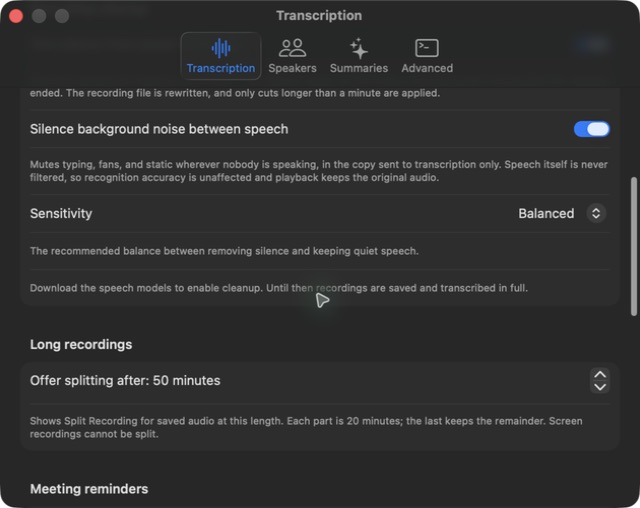
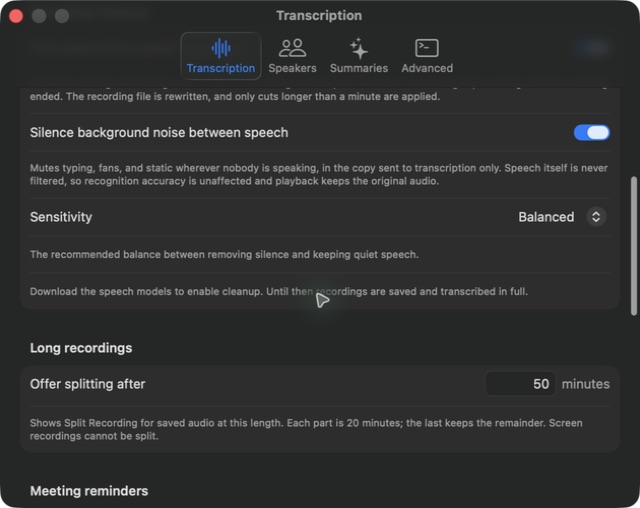
Use editable split threshold, hide conflicting trim badge, and support longer imports

diff --git a/Sources/Stillnote/Views/SettingsView.swift b/Sources/Stillnote/Views/SettingsView.swift
@@ -33,6 +33,7 @@ struct TranscriptionSettingsView: View {
     @State private var trimRecording = true
     @State private var suppressNonSpeech = true
     @State private var sensitivity = CleanupSensitivity.balanced
+    @State private var splitThresholdText = "50"
 
     var body: some View {
         Form {
@@ -63,18 +64,21 @@ struct TranscriptionSettingsView: View {
             }
 
             Section("Long recordings") {
-                Stepper(value: Binding(
-                    get: { model.settings.splitThresholdMinutes },
-                    set: { value in
-                        var updated = model.settings
-                        updated.splitThresholdMinutes = value
-                        Task { await model.saveSettings(updated) }
+                LabeledContent("Offer splitting after") {
+                    HStack(spacing: 6) {
+                        TextField("Minutes", text: $splitThresholdText)
+                            .labelsHidden()
+                            .textFieldStyle(.roundedBorder)
+                            .multilineTextAlignment(.trailing)
+                            .frame(width: 70)
+                            .accessibilityLabel("Split threshold in minutes")
+                        Text("minutes").foregroundStyle(.secondary)
                     }
-                ), in: RecordingSplit.thresholdRange) {
-                    Text("Offer splitting after: \(model.settings.splitThresholdMinutes) minutes")
                 }
-                .accessibilityLabel("Offer splitting after")
-                .accessibilityValue("\(model.settings.splitThresholdMinutes) minutes")
+                if splitThresholdValue == nil {
+                    Text("Enter a whole number from 21 to 90. The last valid threshold remains in use.")
+                        .font(.caption).foregroundStyle(.red)
+                }
                 Text("Shows Split Recording for saved audio at this length. Each part is 20 minutes; the last keeps the remainder. Screen recordings cannot be split.")
                     .font(.caption).foregroundStyle(.secondary)
             }
@@ -150,6 +154,7 @@ struct TranscriptionSettingsView: View {
         }
         .formStyle(.grouped)
         .onAppear {
+            splitThresholdText = String(model.settings.splitThresholdMinutes)
             mode = model.settings.transcription.mode
             language = model.settings.transcription.language
             speakerCount = model.settings.transcription.speakerCount
@@ -158,12 +163,27 @@ struct TranscriptionSettingsView: View {
             suppressNonSpeech = model.settings.cleanup.suppressNonSpeech
             sensitivity = model.settings.cleanup.sensitivity
         }
+        .onChange(of: splitThresholdText) {
+            guard let value = splitThresholdValue else { return }
+            Task {
+                var updated = model.settings
+                updated.splitThresholdMinutes = value
+                await model.saveSettings(updated)
+            }
+        }
         .onChange(of: mode) { save() }
         .onChange(of: language) { save() }
         .onChange(of: speakerCount) { save() }
         .onChange(of: trimRecording) { save() }
         .onChange(of: suppressNonSpeech) { save() }
         .onChange(of: sensitivity) { save() }
+    }
+
+    private var splitThresholdValue: Int? {
+        let text = splitThresholdText.trimmingCharacters(in: .whitespacesAndNewlines)
+        guard !text.isEmpty, text.allSatisfy({ $0.isASCII && $0.isNumber }),
+              let value = Int(text), RecordingSplit.thresholdRange.contains(value) else { return nil }
+        return value
     }
 
     private var normalizedHotWords: [String] {

diff --git a/Tests/StillnoteCoreTests/RecordingSplitTests.swift b/Tests/StillnoteCoreTests/RecordingSplitTests.swift
@@ -25,13 +25,25 @@ import Testing
         #expect(AppSettings.migrating(from: object).settings.splitThresholdMinutes == 50)
     }
 
-    @Test(arguments: [50.0, 60, 90]) func durations(_ minutes: Double) throws {
+    @Test(arguments: [50.0, 60, 90, 120]) func durations(_ minutes: Double) throws {
         let parts = try RecordingSplit.parts(meeting(minutes))
         #expect(parts.count == Int(ceil(minutes / 20)))
         #expect(parts.reduce(0) { $0 + $1.duration } == minutes * 60)
         #expect(parts.allSatisfy { $0.duration > 0 && $0.duration <= 1200 })
         #expect(parts.enumerated().allSatisfy { $0.element.title == "Design review part\($0.offset + 1)" })
         #expect(Set(parts.map(\.id)).count == parts.count)
+    }
+
+    @Test func importedAudioBeyondSpeechLimitCanBeSplit() throws {
+        var original = meeting(120)
+        original.source = .import
+        original.recordedAt = nil
+        original.audioName = "long-interview.m4a"
+        #expect(RecordingSplit.eligible(original, thresholdMinutes: 50))
+        let parts = try RecordingSplit.parts(original)
+        #expect(parts.count == 6)
+        #expect(parts.allSatisfy { $0.duration == 1200 && $0.source == .import && $0.recordedAt == nil })
+        #expect(parts.last?.title == "Design review part6")
     }
 
     @Test func transcriptAndMetadata() throws {

diff --git a/Sources/StillnoteCore/Audio/RecordingSplit.swift b/Sources/StillnoteCore/Audio/RecordingSplit.swift
@@ -13,12 +13,12 @@ public enum RecordingSplit {
 
     public static func parts(_ meeting: Meeting) throws -> [Meeting] {
         guard !meeting.hasVideo, meeting.duration.isFinite,
-              meeting.duration > partSeconds, meeting.duration <= Validation.maxRecordingSeconds else {
-            throw ValidationError("Choose a pure audio recording longer than 20 minutes and at most 90 minutes.")
+              meeting.duration > partSeconds,
+              let count = Int(exactly: ceil(meeting.duration / partSeconds)) else {
+            throw ValidationError("Choose a pure audio recording longer than 20 minutes with a valid duration.")
         }
         let hasRecordingTime = meeting.recordedAt != nil || meeting.source == .recording
             || (meeting.source == nil && meeting.audioName == "recording.wav")
-        let count = Int(ceil(meeting.duration / partSeconds))
         var parts = (0..<count).map { index -> Meeting in
             let offset = Double(index) * partSeconds
             let suffix = " part\(index + 1)"

diff --git a/Sources/Stillnote/Views/MeetingDetailView.swift b/Sources/Stillnote/Views/MeetingDetailView.swift
@@ -224,9 +224,9 @@ struct MeetingDetailView: View {
             }
             Label(meeting.speakers.isEmpty ? "No speakers" : "\(meeting.speakers.count) \(meeting.speakers.count == 1 ? "speaker" : "speakers")",
                   systemImage: "person.2")
-            // The raw captures are gone once a session is saved, so this is the only
-            // surviving record that the recording was shortened.
-            if let cleanup = meeting.cleanup, cleanup.removedDuration > 0 {
+            // Keep the split action and trim badge mutually exclusive in this row.
+            // Cleanup metadata remains on the meeting when the badge is hidden.
+            if !model.canSplit(meeting), let cleanup = meeting.cleanup, cleanup.removedDuration > 0 {
                 Label {
                     Text("Trimmed \(Formatting.duration(cleanup.removedDuration)) of silence from \(Formatting.duration(cleanup.originalDuration))")
                         .monospacedDigit()

diff --git a/docs/ARCHITECTURE.md b/docs/ARCHITECTURE.md
@@ -322,10 +322,15 @@ is retained but never mistaken for a compatible native checkpoint.
 ### Splitting long recordings
 
 `AppSettings.split_threshold_minutes` defaults to 50 and accepts 21–90 minutes.
-The detail header offers **Split Recording…** for saved audio-only meetings at or
-above that threshold. Screen recordings are excluded. A confirmation sheet previews
+The threshold is edited directly in a text field; invalid input keeps the last saved
+value. The detail header offers **Split Recording…** for saved audio-only meetings at or
+above that threshold. While that action is visible, the trim badge is hidden to avoid
+competing for header space; stored cleanup metadata is preserved. Screen recordings
+are excluded. A confirmation sheet previews
 names and durations and explicitly warns that splitting replaces the original meeting
 and audio and clears its summary. Each part is 1,200 seconds except the remainder.
+Splitting also supports saved imports longer than the speech engine’s 90-minute limit;
+that limit applies to transcription, not to the source being split.
 
 `RecordingSplit` plans independent meetings named `<original title> partN`, reserving
 space for the suffix within the title limit. It streams decoded audio to float32 WAVs

diff --git a/docs/screenshots/split-recording/README.md b/docs/screenshots/split-recording/README.md
@@ -58,3 +58,17 @@ Verified: cancel leaves the original untouched; changing the threshold immediate
 
 ![Original replaced by 20-, 20-, and 10-minute parts](12-result-list.jpg)
 
+## Revision: direct input and trim visibility
+
+The threshold now uses a text field; valid integers save immediately. Empty, nonnumeric,
+and out-of-range input retain the last valid saved value and show an inline message.
+The default/custom screenshots above have been replaced with the final text-input UI.
+
+A synthetic recording with three minutes of cleanup metadata shows only the split action
+when eligible. Raising its threshold to 51 minutes restores the trim label and hides split.
+
+![Split action hides trim metadata](13-split-hides-trim.jpg)
+
+![Trim remains when split is unavailable](14-trim-without-split.jpg)
+
+![Invalid threshold retains the saved value](15-invalid-threshold.jpg)
